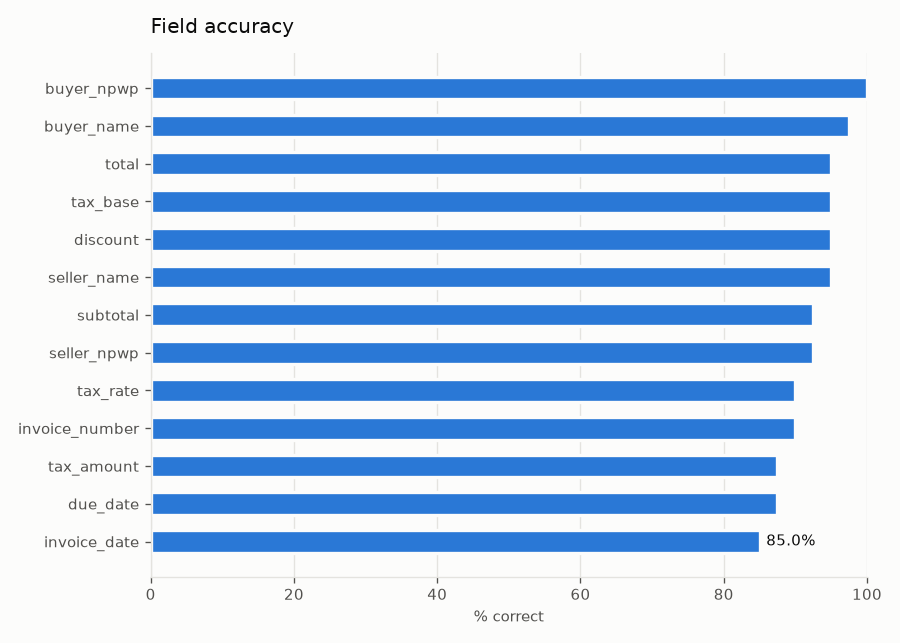
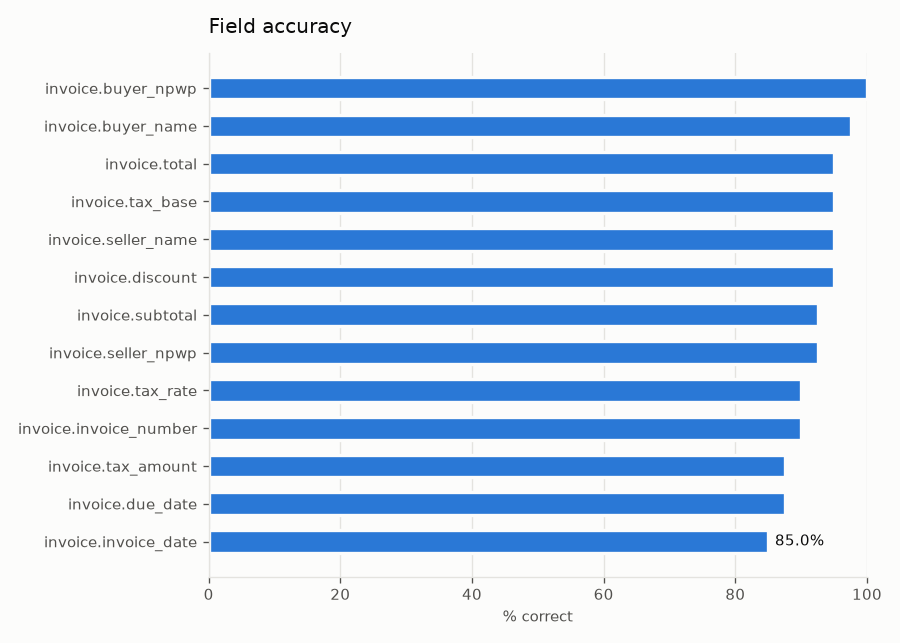
docs: refresh example report and clarify README results and rules
- example report regenerated (field accuracy keyed by document type, full
  per-group breakdown)
- README: where the CORD row comes from, why the trade-off curve is stepwise,
  append-only (not idempotent) runs, R01/R07 wording, test count

diff --git a/docs/example-report/report.md b/docs/example-report/report.md
@@ -1,4 +1,4 @@
-# Extraction QC report: run `20261105-203727-mock`
+# Extraction QC report: run `20261106-123332-mock`
 
 > **Simulated extractor.** These numbers come from the offline mock provider, which returns ground truth with injected LLM/OCR-style errors. They measure the QC pipeline (validation, confidence, routing), not a real model.
 
@@ -9,7 +9,7 @@
 | Documents | 40 | Documents in the run. |
 | Automation rate | 22.5% | Share of documents auto-approved. |
 | Auto-approved accuracy | 100.0% | Share of auto-approved documents whose critical fields are all correct. |
-| Error catch rate | 100.0% | Share of documents with a wrong critical field that were sent to review. |
+| Error catch rate | 100.0% | Share of documents with a wrong critical field that were sent to review (failed extractions excluded: they always go to review). |
 | Fault catch rate | 100.0% | Share of documents with a printed fault (wrong total, bad NPWP...) sent to review. |
 | Document accuracy | 65.0% | Share of documents with every critical field correct. |
 | Line-item F1 | 85.6% | Line items extracted with every field correct. |
@@ -22,19 +22,19 @@ Review threshold: **0.70** (document confidence).
 
 | Field | Accuracy |
 |---|---|
-| `buyer_name` | 97.5% |
-| `buyer_npwp` | 100.0% |
-| `discount` | 95.0% |
-| `due_date` | 87.5% |
-| `invoice_date` | 85.0% |
-| `invoice_number` | 90.0% |
-| `seller_name` | 95.0% |
-| `seller_npwp` | 92.5% |
-| `subtotal` | 92.5% |
-| `tax_amount` | 87.5% |
-| `tax_base` | 95.0% |
-| `tax_rate` | 90.0% |
-| `total` | 95.0% |
+| `invoice.buyer_name` | 97.5% |
+| `invoice.buyer_npwp` | 100.0% |
+| `invoice.discount` | 95.0% |
+| `invoice.due_date` | 87.5% |
+| `invoice.invoice_date` | 85.0% |
+| `invoice.invoice_number` | 90.0% |
+| `invoice.seller_name` | 95.0% |
+| `invoice.seller_npwp` | 92.5% |
+| `invoice.subtotal` | 92.5% |
+| `invoice.tax_amount` | 87.5% |
+| `invoice.tax_base` | 95.0% |
+| `invoice.tax_rate` | 90.0% |
+| `invoice.total` | 95.0% |
 
 ## Fault catch rate by fault type
 
@@ -51,25 +51,25 @@ Review threshold: **0.70** (document confidence).
 
 ### By quality
 
-| quality | n | Automation rate | Document accuracy |
-|---|---|---|---|
-| clean | 25 | 32.0% | 68.0% |
-| scan_heavy | 7 | 0.0% | 57.1% |
-| scan_light | 8 | 12.5% | 62.5% |
+| quality | n | Automation | Auto-approved acc. | Error catch | Fault catch | Doc accuracy | Item F1 |
+|---|---|---|---|---|---|---|---|
+| clean | 25 | 32.0% | 100.0% | 100.0% | 100.0% | 68.0% | 88.8% |
+| scan_heavy | 7 | 0.0% | n/a | 100.0% | 100.0% | 57.1% | 66.7% |
+| scan_light | 8 | 12.5% | 100.0% | 100.0% | n/a | 62.5% | 92.3% |
 
 ### By source
 
-| source | n | Automation rate | Document accuracy |
-|---|---|---|---|
-| synthetic | 40 | 22.5% | 65.0% |
+| source | n | Automation | Auto-approved acc. | Error catch | Fault catch | Doc accuracy | Item F1 |
+|---|---|---|---|---|---|---|---|
+| synthetic | 40 | 22.5% | 100.0% | 100.0% | 100.0% | 65.0% | 85.6% |
 
 ### By template
 
-| template | n | Automation rate | Document accuracy |
-|---|---|---|---|
-| klasik | 17 | 23.5% | 64.7% |
-| minimal | 10 | 30.0% | 60.0% |
-| modern | 13 | 15.4% | 69.2% |
+| template | n | Automation | Auto-approved acc. | Error catch | Fault catch | Doc accuracy | Item F1 |
+|---|---|---|---|---|---|---|---|
+| klasik | 17 | 23.5% | 100.0% | 100.0% | n/a | 64.7% | 84.7% |
+| minimal | 10 | 30.0% | 100.0% | 100.0% | 100.0% | 60.0% | 88.4% |
+| modern | 13 | 15.4% | 100.0% | 100.0% | 100.0% | 69.2% | 84.6% |
 
 ## Threshold trade-off
 

diff --git a/README.md b/README.md
@@ -85,6 +85,11 @@ Every setting can be changed through `DOCEX_*` environment variables or a `.env`
 | Synthetic invoices (`docex demo`) | 40 | 22.5% | **100%** | **100%** | **100%** | 65.0% | 85.6% |
 | CORD receipts (`--source cord`) | 50 | 72.0% | **100%** | **100%** | n/a | 92.0% | 88.9% |
 
+The synthetic row is the committed example report. The CORD row comes from a local
+`docex fetch-cord --n 50` run (the receipts are downloaded, not committed); the same commands
+with seed 42 reproduce it. Error catch rate leaves out extractions that failed outright, since
+those always go to review.
+
 What these say:
 
 - **Nothing wrong was auto-approved.** Every document with a wrong critical field, and every
@@ -93,7 +98,8 @@ What these say:
 - **The router is conservative.** On invoices it also sends correct documents to review, mostly
   because a line item failed a rule or the two extraction attempts disagreed. The trade-off curve
   shows the price of automating more: at threshold 0.30 automation rises to 35.0% and
-  auto-approved accuracy falls to 92.9%.
+  auto-approved accuracy falls to 92.9%. The curve moves in steps because confidence is a
+  product of a few fixed factors (1.0, 0.8, 0.5, 0.4, ...), so only a few levels occur.
 - **Confidence is under-confident, which is safe:** fields scored around 0.5 were right 96% of
   the time. That is the first thing to tune once a real model is plugged in.
 
@@ -119,20 +125,21 @@ Full report: [`docs/example-report/report.md`](docs/example-report/report.md).
 - **Ground truth = what is printed.** If an invoice prints a wrong total, the label is that wrong
   total. Extraction is judged on reading the document; validation is judged on catching the error.
 - **Routing never reads ground truth.** Only the evaluator does.
-- **Idempotent, append-only runs.** Every run gets its own `run_id`, so runs can be compared.
+- **Append-only runs.** Every run gets its own `run_id` and nothing is overwritten, so runs can
+  be compared.
 
 ## Validation rules
 
 | ID | Applies to | Rule | Severity |
 |---|---|---|---|
 | R00_parse | all | a value is present but cannot be parsed (e.g. `31/02/2026`) | hard |
-| R01 | all | required field missing | hard |
+| R01 | invoice | required field missing (seller NPWP included) | hard |
 | R02 | invoice | quantity x unit price = line amount | hard |
 | R03 | invoice | subtotal = sum of line amounts | hard |
 | R04 | invoice | tax base = subtotal - discount, or 11/12 of it (*DPP Nilai Lain*) | soft |
 | R05 | invoice | tax amount = tax base x tax rate | hard |
 | R06 | invoice | total = subtotal - discount + tax | hard |
-| R07 / R07B | invoice | seller / buyer NPWP has 15 or 16 digits | hard / soft |
+| R07 / R07B | invoice | seller / buyer NPWP, when present, has 15 or 16 digits | hard / soft |
 | R08 | invoice | invoice year between 2015 and next year | soft |
 | R09 | invoice | due date not before invoice date | hard |
 | R10 | invoice | tax rate is 11% or 12% | soft |
@@ -211,7 +218,7 @@ catches exceptions, so one bad file never stops a run.
 ## Development
 
 ```bash
-uv run pytest            # 186 tests, no network needed
+uv run pytest            # 213 tests, no network needed
 uv run ruff check
 uv run ruff format --check
 ```
